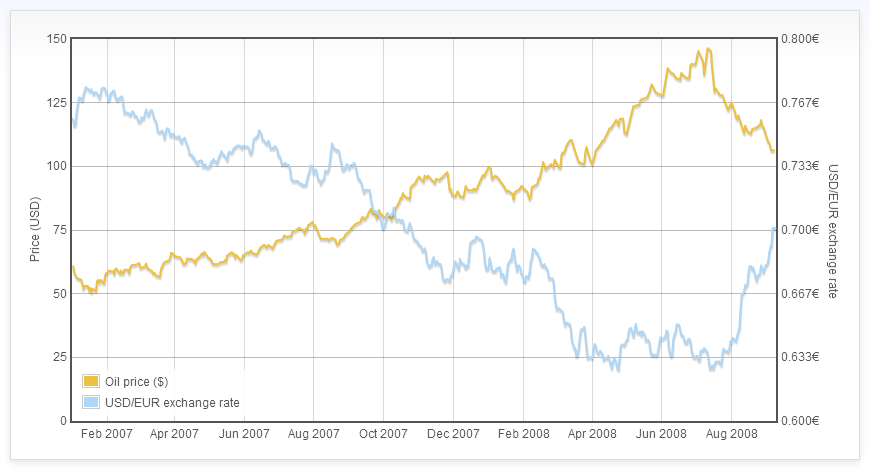
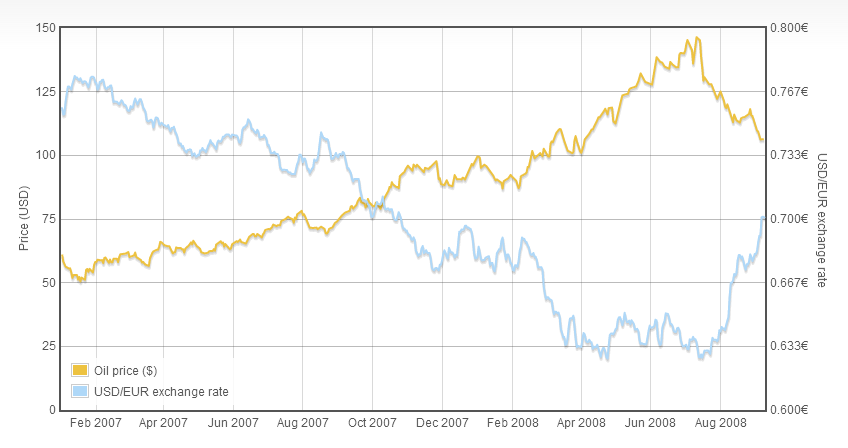
Fix up 0.9-update example image borders.

diff --git a/_posts/2013-09-29-flot-09-update.md b/_posts/2013-09-29-flot-09-update.md
@@ -24,11 +24,11 @@ yaxes: [{
    position: "right",
    label: "USD/EUR exchange rate",
    labelPadding: 7
-}],
+}]
 ```
 
 <div class="blog-image">
-   <img src="/images/blog/2013-09-29-flot-09-update.png" alt="{{ post.title }}" title="{{ post.title }}" width="870" height="470"></img>
+   <img src="/images/blog/2013-09-29-flot-09-update.png" alt="{{ post.title }}" title="{{ post.title }}" width="848" height="448"></img>
 </div>
 
 Rotated tick labels still aren't quite ready yet, but will be soon. The final
